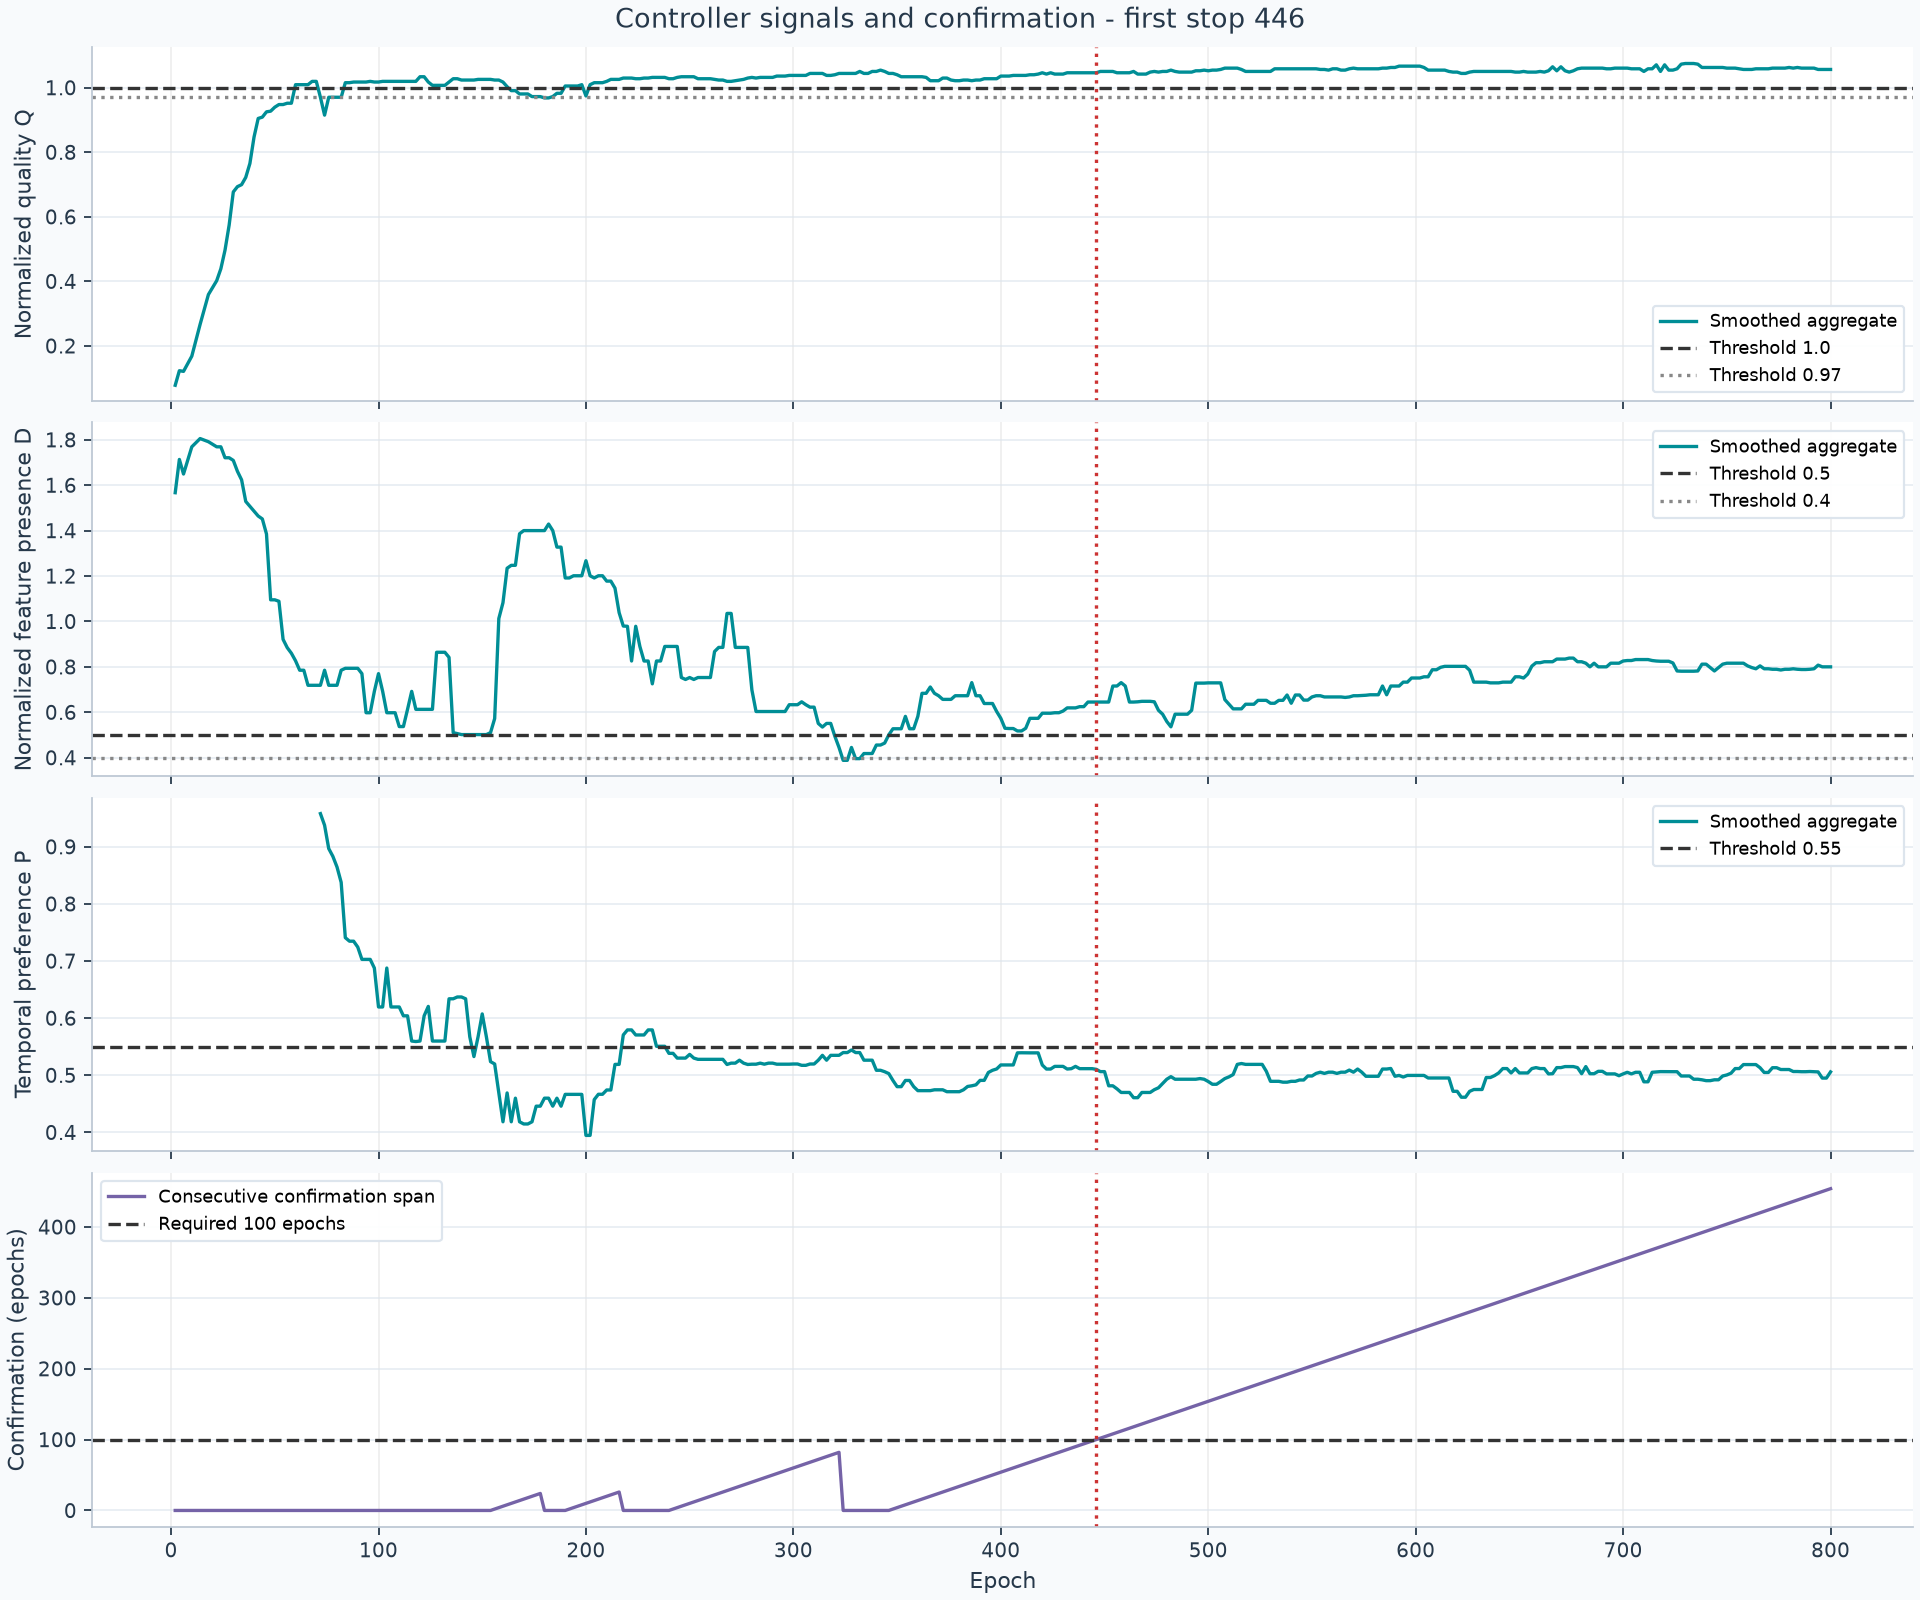
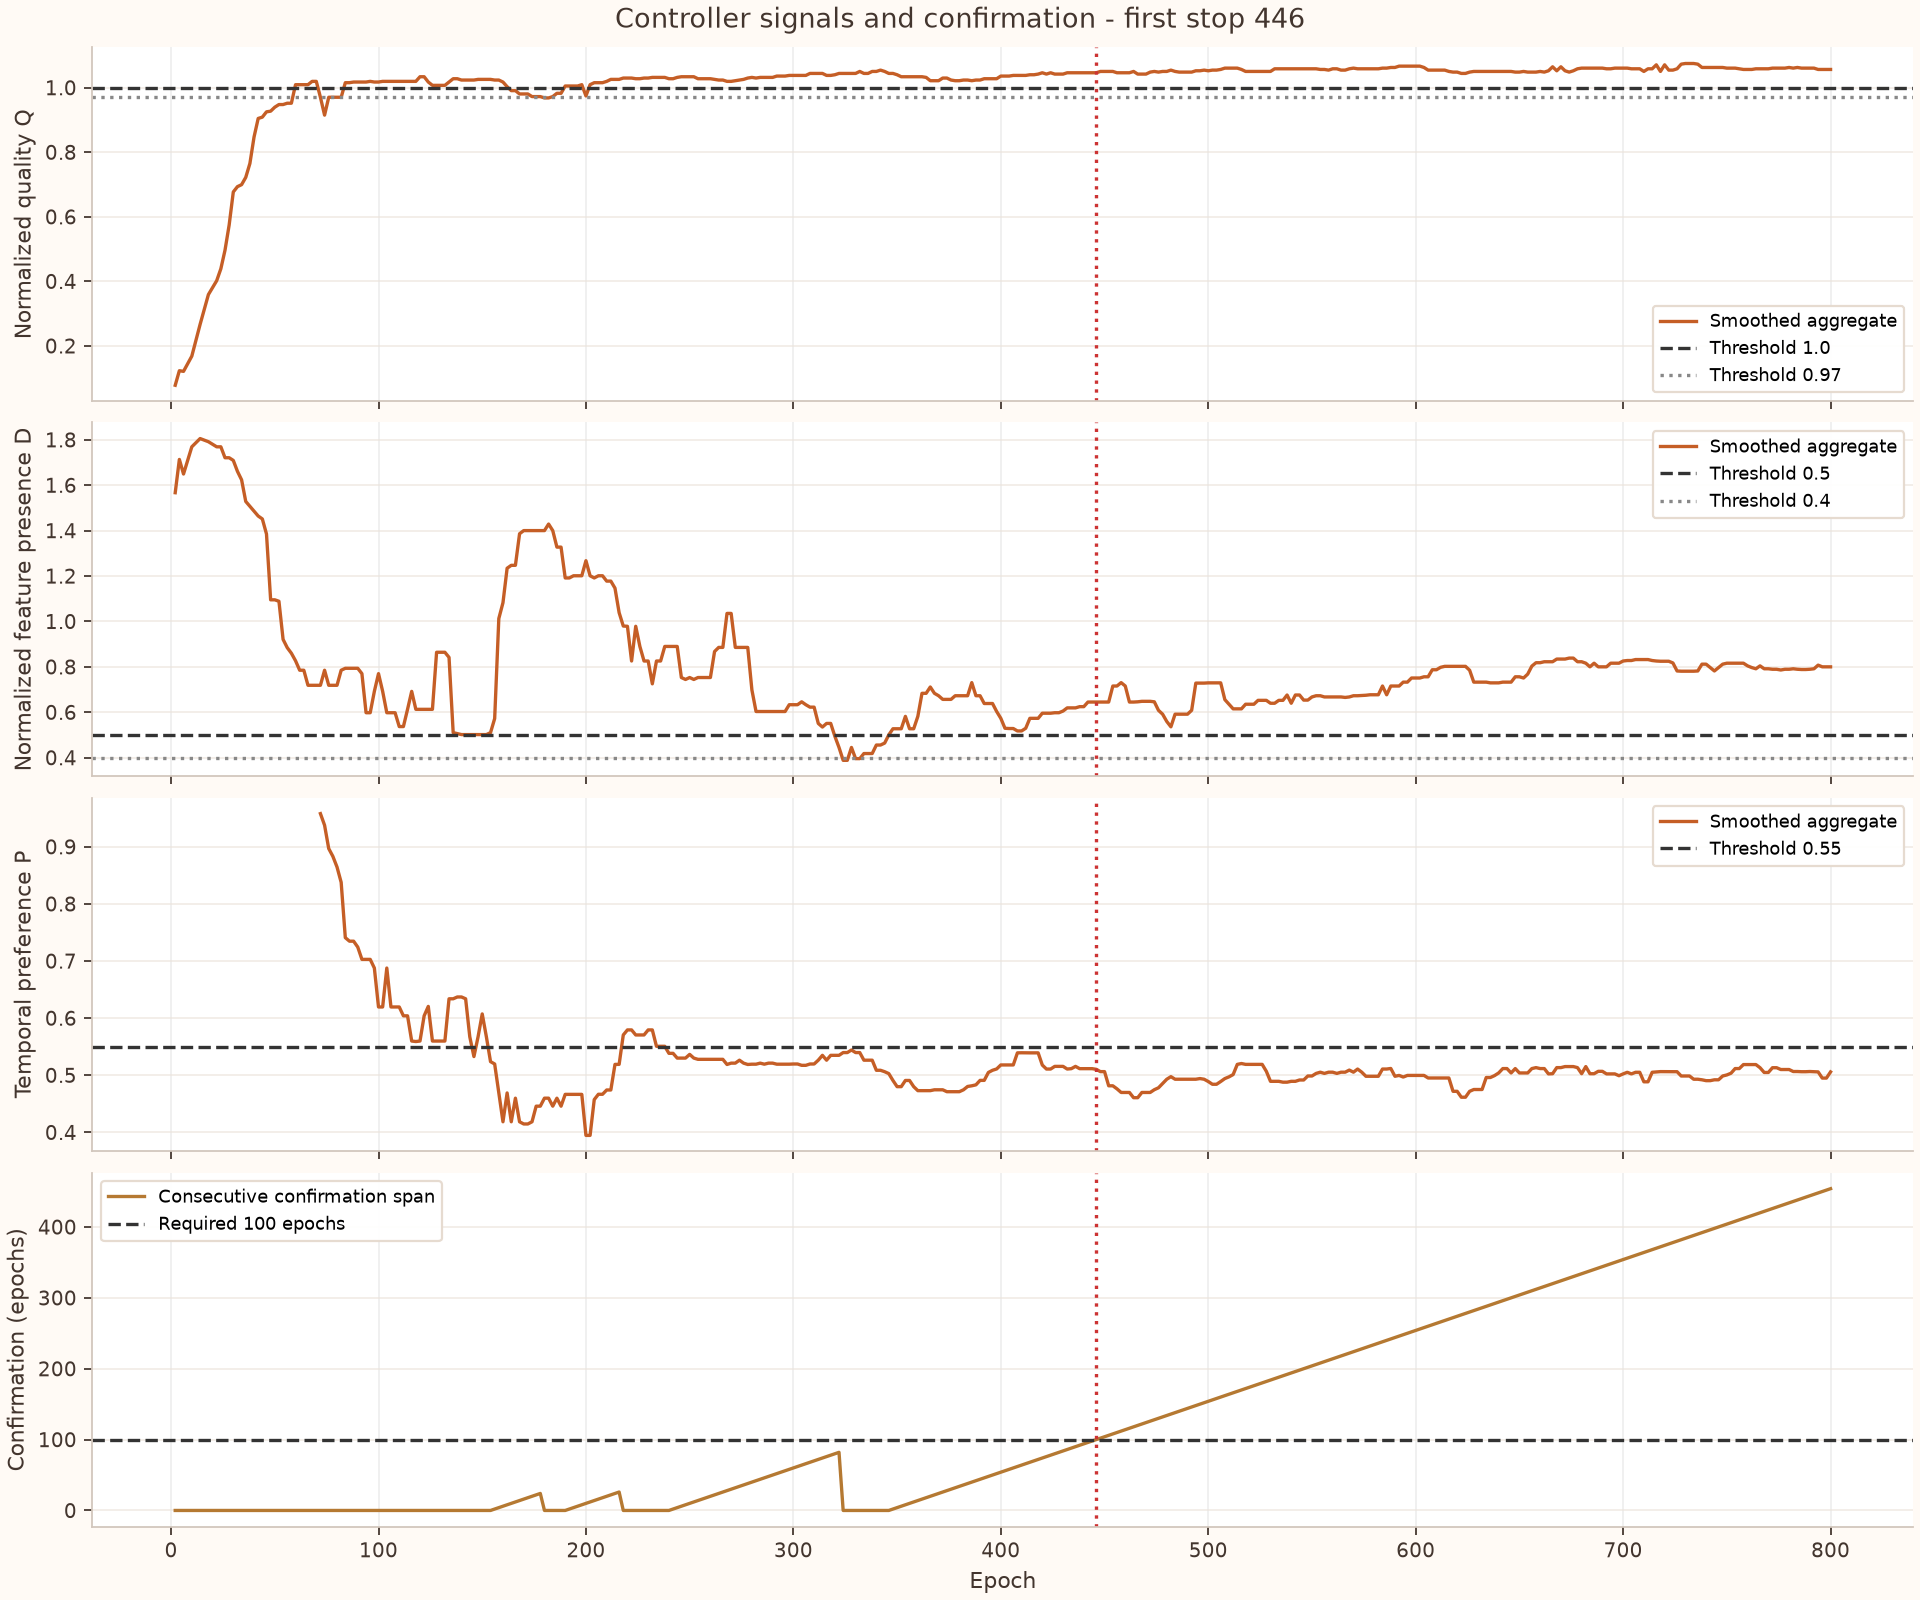
Use orange curves and varied warm boxplot colors
Assign distinct warm fills to plotted epochs consistently across panels, with separate real-reference colors. Preserve the example data and computed stopping epoch.

diff --git a/src/ai_self_evaluation/reporting.py b/src/ai_self_evaluation/reporting.py
@@ -8,26 +8,27 @@ matplotlib.use('Agg')
 import matplotlib.pyplot as plt
 from .util import read_json,write_csv
 
-GENERATED='#008e96'
-GENERATED_FILL='#bde4e1'
-REAL_TARGET='#cbd5e1'
-REAL_CONTROL='#e8edf3'
-INK='#26384a'
-EDGE='#8797a8'
+GENERATED='#c55e26'
+GENERATED_FILL='#f4b183'
+EPOCH_FILLS=('#f6bd60','#f7d9c4','#e78b73','#e8c56d','#d9a066','#f3a84b','#ecc1ae')
+REAL_TARGET='#cad7e2'
+REAL_CONTROL='#dfe8df'
+INK='#43352e'
+EDGE='#9b8d82'
 
 def style_figure(fig):
-    fig.set_facecolor('#f8fafc')
+    fig.set_facecolor('#fffaf5')
     for ax in fig.axes:
         ax.set_facecolor('white');ax.set_axisbelow(True)
         for side in ('top','right'):ax.spines[side].set_visible(False)
         for side in ('left','bottom'):
-            ax.spines[side].set_color('#bdc8d4');ax.spines[side].set_linewidth(.8)
+            ax.spines[side].set_color('#d2c6bc');ax.spines[side].set_linewidth(.8)
         ax.tick_params(colors=INK,labelsize=9)
         ax.title.set_color(INK);ax.xaxis.label.set_color(INK);ax.yaxis.label.set_color(INK)
-        ax.grid(axis='y',color='#dce4ed',alpha=.75,linewidth=.7)
+        ax.grid(axis='y',color='#ece4dc',alpha=.8,linewidth=.7)
         legend=ax.get_legend()
         if legend:
-            legend.get_frame().set_facecolor('white');legend.get_frame().set_edgecolor('#dce4ed');legend.get_frame().set_alpha(.95)
+            legend.get_frame().set_facecolor('white');legend.get_frame().set_edgecolor('#e5d9ce');legend.get_frame().set_alpha(.95)
     if fig._suptitle:fig._suptitle.set_color(INK)
 
 def normalized(rows,norm,key):
@@ -67,10 +68,12 @@ def training_report(root,baseline,observations,settings,policy=None):
             if values:stats.append(dict(metric=key,epoch=o['epoch'],group='generated',**box_stats(values)))
             if o in selected and values:positions.append(o['epoch']);data.append(values)
         if data:
-            ax.boxplot(data,positions=positions,widths=min(settings['boxplot_every_epochs']*.5,24),manage_ticks=False,patch_artist=True,boxprops=dict(facecolor=GENERATED_FILL,edgecolor='#75a8a5',linewidth=.9),medianprops=dict(color=INK,linewidth=1.4),whiskerprops=dict(color=EDGE),capprops=dict(color=EDGE),flierprops=dict(marker='o',markersize=2,markerfacecolor=EDGE,markeredgecolor='none',alpha=.45))
+            boxes=ax.boxplot(data,positions=positions,widths=min(settings['boxplot_every_epochs']*.5,24),manage_ticks=False,patch_artist=True,boxprops=dict(edgecolor='#aa8064',linewidth=.9),medianprops=dict(color=INK,linewidth=1.4),whiskerprops=dict(color=EDGE),capprops=dict(color=EDGE),flierprops=dict(marker='o',markersize=2,markerfacecolor=EDGE,markeredgecolor='none',alpha=.45))
+            for box,epoch in zip(boxes['boxes'],positions):
+                box.set_facecolor(EPOCH_FILLS[(epoch//settings['boxplot_every_epochs'])%len(EPOCH_FILLS)])
             if k>0:ax.scatter(positions,[np.mean(v) for v in data],color=GENERATED,s=18,edgecolors='white',linewidths=.45,zorder=4,label='Per-epoch mean')
         curve=[o for o in observations if o['decision'][key+'_smooth'] is not None]
-        if curve:ax.plot([o['epoch'] for o in curve],[o['decision'][key+'_smooth'] for o in curve],color='#008e96',label='Smoothed controller aggregate')
+        if curve:ax.plot([o['epoch'] for o in curve],[o['decision'][key+'_smooth'] for o in curve],color=GENERATED,label='Smoothed controller aggregate')
         ts=[threshold['quality_enter_ratio'],threshold['quality_exit_ratio']] if k==0 else [threshold['defect_enter_normalized'],threshold['defect_exit_normalized']] if k==1 else [threshold['progress_max']]
         for j,t in enumerate(ts):ax.axhline(t,color='#333' if j==0 else '#888',ls='--' if j==0 else ':',label='Threshold '+str(t))
         stop=next((o['epoch'] for o in observations if o['decision']['first_stop']),None)
@@ -89,11 +92,11 @@ def controller_curves(folder,observations,settings,policy):
     fig,axes=plt.subplots(4,1,figsize=(12,10),sharex=True,layout='constrained')
     for ax,key,title in zip(axes[:3],('quality','defect','progress'),('Normalized quality Q','Normalized feature presence D','Temporal preference P')):
         valid=[o for o in observations if o['decision'][key+'_smooth'] is not None]
-        if valid:ax.plot([o['epoch'] for o in valid],[o['decision'][key+'_smooth'] for o in valid],color='#008e96',label='Smoothed aggregate')
+        if valid:ax.plot([o['epoch'] for o in valid],[o['decision'][key+'_smooth'] for o in valid],color=GENERATED,label='Smoothed aggregate')
         thresholds=[policy['quality_enter_ratio'],policy['quality_exit_ratio']] if key=='quality' else [policy['defect_enter_normalized'],policy['defect_exit_normalized']] if key=='defect' else [policy['progress_max']]
         for j,t in enumerate(thresholds):ax.axhline(t,color='#333' if j==0 else '#888',ls='--' if j==0 else ':',label='Threshold '+str(t))
         ax.set_ylabel(title);ax.grid(alpha=.2);ax.legend(fontsize=8,loc='best')
-    axes[3].plot([o['epoch'] for o in observations],[o['decision']['elapsed'] for o in observations],color='#7563a7',label='Consecutive confirmation span')
+    axes[3].plot([o['epoch'] for o in observations],[o['decision']['elapsed'] for o in observations],color='#b57932',label='Consecutive confirmation span')
     axes[3].axhline(policy['confirmation_epochs'],color='#333',ls='--',label='Required '+str(policy['confirmation_epochs'])+' epochs')
     axes[3].set_ylabel('Confirmation (epochs)');axes[3].set_xlabel('Epoch');axes[3].grid(alpha=.2);axes[3].legend(fontsize=8,loc='best')
     stop=next((o['epoch'] for o in observations if o['decision']['first_stop']),None)
@@ -117,7 +120,7 @@ def inference_report(folder,baseline,rows,settings):
         boxes=ax.boxplot(datasets,showmeans=True,patch_artist=True,medianprops=dict(color=INK,linewidth=1.6),whiskerprops=dict(color=EDGE,linewidth=1),capprops=dict(color=EDGE),flierprops=dict(marker='o',markersize=3,markerfacecolor=EDGE,markeredgecolor='none',alpha=.5),meanprops=dict(marker='D',markersize=5,markerfacecolor=GENERATED,markeredgecolor='white',markeredgewidth=.7))
         fills=[REAL_TARGET,GENERATED_FILL] if key=='quality' else [REAL_CONTROL,REAL_TARGET,GENERATED_FILL]
         for i,(box,fill) in enumerate(zip(boxes['boxes'],fills)):
-            box.set(facecolor=fill,edgecolor='#75a8a5' if i==len(fills)-1 else EDGE,linewidth=1.1)
+            box.set(facecolor=fill,edgecolor='#aa8064' if i==len(fills)-1 else EDGE,linewidth=1.1)
             if i<len(fills)-1:boxes['means'][i].set_markerfacecolor('#60758d')
         ax.set_xticks(range(1,len(names)+1),names);ax.set_title('Normalized '+key);ax.grid(axis='y',alpha=.2)
         stats.extend(dict(metric=key,group=name,**box_stats(v)) for name,v in zip(names,datasets))

diff --git a/README.md b/README.md
@@ -12,7 +12,7 @@ Illustrative output layout: image-level boxplots, original-real references, cont
 
 The package itself generates this three-panel report. Plot spacing, report formats, resolution, update frequency and all stopping settings are configurable in YAML. Inference produces real-versus-generated boxplots and one score row per input image.
 
-Teal boxes represent generated images; blue-grey boxes represent real references. Dark center lines show medians, and colored markers show means where required by the aggregation rule.
+Orange curves show the controller signals. Warm-colored boxes distinguish the plotted epochs, using the same epoch color across panels; blue-grey and sage boxes identify the real target and control references. Box colors identify observations, not score magnitude. Dark center lines show medians, and colored markers show means where required by the aggregation rule.
 
 ### Controller curves and confirmation
 
